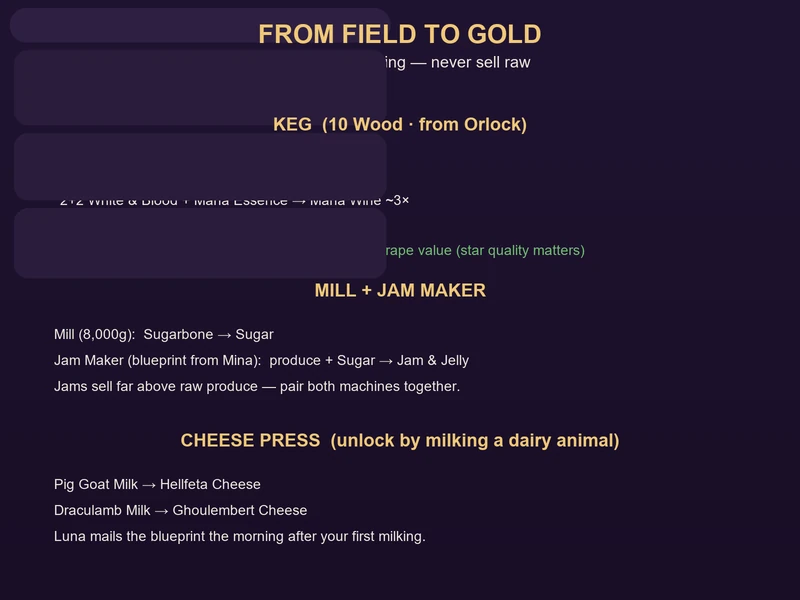
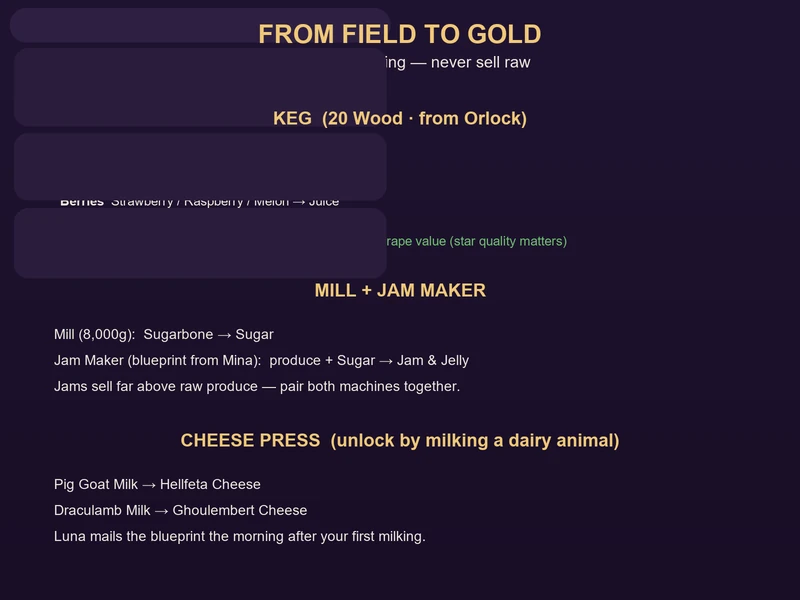
fix: unify Moonlight Peaks crop data — Keg 20 Wood, wine 8-17x, Cruelcumber no regrow, Drikker Spring+Summer, Rice 3-season, Moonfruit is a grown seed — Aug 16

Changed region(s): [[0.3438, 0.18, 0.6562, 0.24], [0.4688, 0.39, 0.7188, 0.45], [0.0625, 0.33, 0.5, 0.36]]

diff --git a/scripts/gen_mp_crop_images.py b/scripts/gen_mp_crop_images.py
@@ -103,7 +103,7 @@ def crop_calendar():
 
     # season columns
     seasons = [
-        ("SPRING", GREEN, ["Wild Potato 3n", "Carrot 6n", "Strawberry 7n*", "White/Blood Grape 5n*", "Raspberry 7n*", "Eggplant 6n", "Sugarbone 5n", "Cruelcumber 7n*", "Blueberry 9n*"]),
+        ("SPRING", GREEN, ["Wild Potato 3n", "Carrot 6n", "Strawberry 7n*", "White/Blood Grape 5n*", "Raspberry 7n*", "Eggplant 6n", "Sugarbone 5n", "Cruelcumber 7n", "Blueberry 9n*", "Rice 5n", "Drikker 9n (magic)"]),
         ("SUMMER", GOLD, ["Gobbler 6n (magic)", "Drikker 9n (magic)", "Skunktail 9n", "Melon 7n*", "Red Corn 6n", "Sunburst 9n (magic)"]),
         ("AUTUMN", RED, ["Pumpkin 9n", "Mandrake 6n (magic)", "Radish 6n", "Lava Pepper 8n*", "Cranberry 8n*"]),
         ("WINTER", PURPLE, ["Blackberry 8n*", "Blueberry 9n*", "Dark Strawberry 9n*", "Sweet Wicca (magic)", "Black Sun Currant (magic)"]),
@@ -117,11 +117,11 @@ def crop_calendar():
         rrect(d, (x0, y_top, x0 + col_w, y_top + col_h), 14, fill=CARD)
         rrect(d, (x0, y_top, x0 + col_w, y_top + 40), 14, fill=col)
         ctext(d, (x0 + col_w / 2, y_top + 20), name, fit(name, col_w - 12, 18, True), fill=BG)
-        y = y_top + 58
+        y = y_top + 56
         for c in crops:
             f = fit(c, col_w - 16, 15)
             ctext(d, (x0 + 10, y), c, f, fill=CREAM, anchor="lm")
-            y += 34
+            y += 30
 
     rrect(d, (28, y_top + col_h + 10, W - 28, H - 16), 14, fill=PANEL)
     note = "* = regrows  |  n = nights to grow  |  magic = needs Aquaflux spell"
@@ -166,23 +166,24 @@ def processing():
     header(d, "FROM FIELD TO GOLD", "Process everything — never sell raw")
 
     # Keg chain
-    rrect(d, (28, 100, W - 28, 250), 14, fill=CARD)
-    ctext(d, (W / 2, 124), "KEG  (10 Wood · from Orlock)", font(18, True), fill=GOLD)
+    rrect(d, (28, 96, W - 28, 252), 14, fill=CARD)
+    ctext(d, (W / 2, 118), "KEG  (20 Wood · from Orlock)", font(18, True), fill=GOLD)
     keg_items = [
         ("Grapes", "4 Blood Grape → Red Wine ~360g"),
         ("", "4 White Grape → White Wine ~460g"),
         ("", "2+2 White & Blood + Mana Essence → Mana Wine ~3×"),
         ("Berries", "Strawberry / Raspberry / Melon → Juice"),
+        ("Wheat", "3 Wily Wheat → Beer ~420g"),
     ]
-    y = 152
+    y = 144
     for lead, rest in keg_items:
-        f1 = font(14, True)
-        f2 = fit(rest, 560, 14)
+        f1 = font(13, True)
+        f2 = fit(rest, 560, 13)
         if lead:
             ctext(d, (60, y), lead, f1, fill=CREAM, anchor="lm")
         ctext(d, (60 + (tlen(lead + "  ", f1) if lead else 0), y), rest, f2, fill=CREAM, anchor="lm")
-        y += 24
-    ctext(d, (W / 2, y + 2), "Wine sells 8–17× the raw grape value (star quality matters)", fit("Wine sells 8–17× the raw grape value (star quality matters)", W - 80, 14), fill=GREEN)
+        y += 19
+    ctext(d, (W / 2, y + 2), "Wine sells 8–17× the raw grape value (star quality matters)", fit("Wine sells 8–17× the raw grape value (star quality matters)", W - 80, 13), fill=GREEN)
 
     # Mill + Jam Maker chain
     rrect(d, (28, 266, W - 28, 400), 14, fill=CARD)

diff --git a/docs/moonlight-peaks/crops-farming.md b/docs/moonlight-peaks/crops-farming.md
@@ -43,8 +43,7 @@ All seeds come from **Luna's Seed Stall** in Moonlit Pines, and her stock rotate
 | Onion | 10g | 4 | No | Cheapest starter crop; great late-season filler |
 | Blood Tomato | 20g | 6 | No | Used in Gazpacho Soup |
 | Wily Wheat | 30g | 4 | No | Fast; turns into Beer in the Keg for real money |
-| Rice | 30g | 5 | No | Spring/Summer/Autumn availability |
-| Moonfruit ⚡ | 100g | 6 | No | Magical; yields 3× per harvest; best processed into Mana Moon Jams |
+| Moonfruit ⚡ | 100g | 6 | No | Magical; yields 3× per harvest; best processed into Moonfruit Jam |
 
 ### 🌸 Spring Crops
 
@@ -60,6 +59,8 @@ All seeds come from **Luna's Seed Stall** in Moonlit Pines, and her stock rotate
 | Eggplant | 40g | 6 | No | Used in Farmer's Stew |
 | Sugarbone | 60g | 5 | No | Run through the Mill for Sugar |
 | Carrot | 80g | 6 | No | Best direct-sale Spring crop (~160g+) |
+| Rice | 30g | 5 | No | Spring/Summer/Autumn |
+| Drikker ⚡ | 280g | 9 | No | Magical; Spring+Summer — see best crops below |
 
 ### ☀ Summer Crops
 
@@ -69,7 +70,7 @@ All seeds come from **Luna's Seed Stall** in Moonlit Pines, and her stock rotate
 | Melon | 40g | 7 | ⭯ every 6 | Summer+Autumn; juice base |
 | Skunktail | 80g | 9 | No | Best normal-water Summer crop (sells ~180g) |
 | Sunburst ⚡ | 140g | 9 | No | Magical; Summer+Autumn |
-| Drikker ⚡ | 280g | 9 | No | Magical; big profit — see best crops below |
+| Drikker ⚡ | 280g | 9 | No | Magical; Spring+Summer — big profit — see best crops below |
 | Gobbler ⚡ | 350g | 6 | No | Magical; **best crop in the game** — feed each plant a fish or bug while it grows |
 
 ### 🍂 Autumn Crops
@@ -81,6 +82,7 @@ All seeds come from **Luna's Seed Stall** in Moonlit Pines, and her stock rotate
 | Cranberry | 50g | 8 | ⭯ every 4 | Autumn+Winter; Keg it |
 | Pumpkin | 90g | 9 | No | Best normal-water Autumn crop (~220g); gifts & recipes |
 | Mandrake ⚡ | 200g | 6 | No | Magical; Happy Mandrake is a top profit crop |
+| Rice | 30g | 5 | No | Spring/Summer/Autumn |
 
 ### ❄ Winter Crops
 
@@ -150,13 +152,14 @@ Not all seeds are equal. If you only remember a few, remember these:
 
 Raw produce sells for pocket change. Processed goods sell for multiples. This is the single most important economic system in the game.
 
-### 🛢 Keg (unlock early, from Orlock)
+### 🛢 Keg (20 Wood, blueprint from Orlock)
 
 - Build **at least 3 Kegs** so you can process multiple harvests at once.
 - **Wine:** Red Wine = **4 Blood Grapes** → ~360g (390g at 1-star). White Wine = **4 White Grapes** → ~460g (490g at 1-star). **White Wine outsells Red**, so favor White Grapes early.
 - **Mana Wine** (later): 2 White Grapes + 2 Blood Grapes + 1 Mana Essence → roughly **3× the price of Red Wine**. One of the best money-makers in the game.
+- **Beer:** **3 Wily Wheat** → ~420g (520g at 1-star). An easy early money-maker once you can grow Wily Wheat.
 - **Juice:** Strawberries, Raspberries and Melons turn into juices — they sell for less than wine but your regrowers produce faster, so you can build stock quickly and turn it over in days.
-- Wine profit ranges **5–17×** the raw grape value depending on star quality — the higher the star of your produce, the more the Keg pays.
+- Wine profit ranges **8–17×** the raw grape value depending on star quality — the higher the star of your produce, the more the Keg pays.
 
 ![Moonlight Peaks crop processing chain from field to Keg, Jam Maker and Mill](img/crop-processing-chain.webp)
 

diff --git a/docs/moonlight-peaks/index.md b/docs/moonlight-peaks/index.md
@@ -59,7 +59,7 @@ date: 2026-07-31
 
 月光岭有四季轮换（春→夏→秋→冬），种子在 Luna 的种子摊购买，大部分作物只在特定季节可种。全年可种的作物包括洋葱 Onion（4天）、血番茄 Blood Tomato（6天）、狡黠小麦 Wily Wheat（4天）和魔法月光果 Moonfruit（6天，需魔法浇水）。
 
-- **🌸 春季**：野土豆 Wild Potato（3天）、胡萝卜 Carrot（6天）、草莓 Strawberry（7天⭯）、白葡萄/血葡萄 White/Blood Grape（5天⭯）、覆盆子 Raspberry（7天⭯）、茄子 Eggplant（6天）、糖骨 Sugarbone（5天）、克鲁黄瓜 Cruelcumber（7天⭯）
+- **🌸 春季**：野土豆 Wild Potato（3天）、胡萝卜 Carrot（6天）、草莓 Strawberry（7天⭯）、白葡萄/血葡萄 White/Blood Grape（5天⭯）、覆盆子 Raspberry（7天⭯）、茄子 Eggplant（6天）、糖骨 Sugarbone（5天）、克鲁黄瓜 Cruelcumber（7天）、德里克 Drikker（9天，需魔法浇水，春夏）
 - **☀ 夏季**：格柏勒 Gobbler（6天，需魔法浇水）、德里克 Drikker（9天，需魔法浇水）、臭鼬尾 Skunktail（9天）、甜瓜 Melon（7天⭯）、红玉米 Red Corn（6天）
 - **🍂 秋季**：南瓜 Pumpkin（9天）、曼德拉草 Mandrake（6天，需魔法浇水）、萝卜 Radish（6天）、熔岩椒 Lava Pepper（8天⭯）、蔓越莓 Cranberry（8天⭯）
 - **❄ 冬季**：黑莓 Blackberry（8天⭯）、蓝莓 Blueberry（9天⭯）、暗夜草莓 Dark Strawberry（9天⭯，需魔法浇水）、甜威卡 Sweet Wicca（需魔法浇水）、黑日醋栗 Black Sun Currant（12天⭯，需魔法浇水）

diff --git a/docs/moonlight-peaks/vampire-powers.md b/docs/moonlight-peaks/vampire-powers.md
@@ -83,7 +83,7 @@ Stamina is the classic farm-sim energy bar — eat to refill. **Mana is the one 
 | Source | How to get | Value |
 |--------|-----------|-------|
 | **Mana Extractor** | Blueprint from the Blood Grape Stomping minigame (score 200+ at Night of First Blood, Spring 24); costs 30 Stone + 10 Iron Bars to build | Converts magical crops into **Mana Essence** — your endgame Mana engine |
-| **Moonfruit Jam** | Forage Moonfruit, process at the Jam Maker | Cheap, farmable Mana |
+| **Moonfruit Jam** | Grow Moonfruit (magical crop), process at the Jam Maker | Cheap, farmable Mana |
 | **Nightshade** | Forage in caves and dark areas | Raw Mana restore on the go |
 | **Herb Tea** | 3 any herb at the Cauldron | Free Mana (herbs are everywhere) |
 | **Mana Bisque** | Sabrina (5 hearts): 1 Nightshade + 1 fish + 1 milk | +80 Mana and +2 Mana Regen for 5 min — great before a mine run |

diff --git a/docs/moonlight-peaks/money-making.md b/docs/moonlight-peaks/money-making.md
@@ -7,7 +7,7 @@ date: 2026-07-27
 # Moonlight Peaks: Money Making Guide
 
 ## Golden Rule: Process Before Selling
-Keg: Strawberries -> Juice (13x), Grapes -> Wine (5-10x).
+Keg: Strawberries -> Juice, Grapes -> Wine (8-17x).
 
 ## Profit by Stage
 Early (1-20 nights): 5,000-10,000g - Wild Potatoes, foraging, fishing.
@@ -15,7 +15,7 @@ Mid (Spring-Summer): 10,000-50,000g - Wine, Gobbler.
 Late (Y2+): 100,000g+ - Enchanted tools, 10+ Kegs, fruit trees.
 
 ## Equipment
-Keg (3+): 30 Wood + 15 Copper Bars
+Keg (3+): 20 Wood
 Jam Maker: 40 Wood + 20 Stone + 10 Iron Bars
 Mana Extractor: 30 Stone + 10 Iron Bars
 

diff --git a/docs/moonlight-peaks/cooking-recipes.md b/docs/moonlight-peaks/cooking-recipes.md
@@ -112,7 +112,7 @@ As you upgrade your home, you can build a **Kitchen Extension** (3,000g + 20 Woo
 | Ingredient | Source | Best Use |
 |-----------|--------|----------|
 | Nightshade | Forage (caves, dark areas) | Mana dishes |
-| Moonfruit | Forage (Moonlit Pines) | Juice, desserts |
+| Moonfruit | Magical crop (all seasons; seeds from Luna) | Juice, desserts |
 | Any Herb | Forage (fields, forest) | Tea, salads |
 | Garlic | Forage (Abandoned Mine) | Vampire's Delight |
 

diff --git a/docs/moonlight-peaks/beginners-guide.md b/docs/moonlight-peaks/beginners-guide.md
@@ -31,7 +31,7 @@ Wake at 6 PM, sleep by 6 AM. Roughly 15 real minutes per night.
 - Unlock Hellkitten Form (faster, less stamina)
 
 ## Nights 9-10: Building
-- Build 3 Kegs (30 Wood + 15 Copper Bars each)
+- Build 3 Kegs (20 Wood each)
 - Build Barn (4,000g) for animals and fertilizer
 - Start magic crop rotation
 
